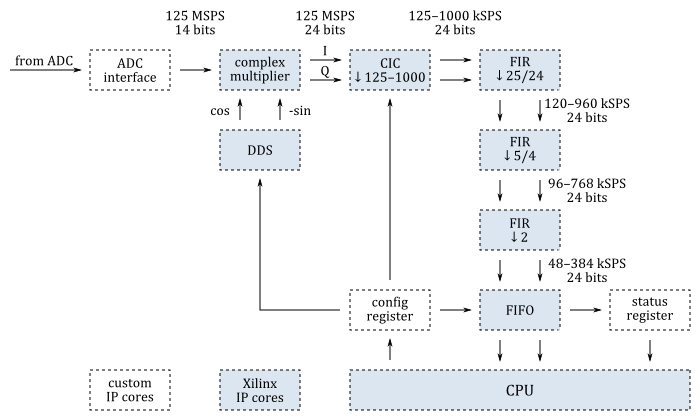
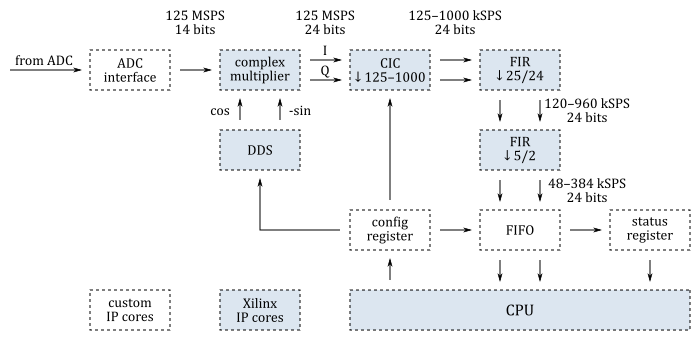
update diagrams in sdr-transceiver-hpsdr and sdr-receiver-hpsdr

diff --git a/sdr-receiver-hpsdr.md b/sdr-receiver-hpsdr.md
@@ -20,7 +20,7 @@ Hardware
 
 The FPGA configuration consists of eight identical digital down-converters (DDC). Their structure is shown on the following diagram:
 
-![HPSDR receiver]({{ "/img/sdr-receiver-hpsdr.png" | prepend: site.baseurl }})
+![HPSDR receiver]({{ "/img/sdr-receiver-hpsdr-ddc.png" | prepend: site.baseurl }})
 
 The main problem in emulating the HPSDR hardware with Red Pitaya is that the Red Pitaya ADC sample rate is 125 MSPS and the HPSDR ADC sample rate is 122.88 MSPS.
 
